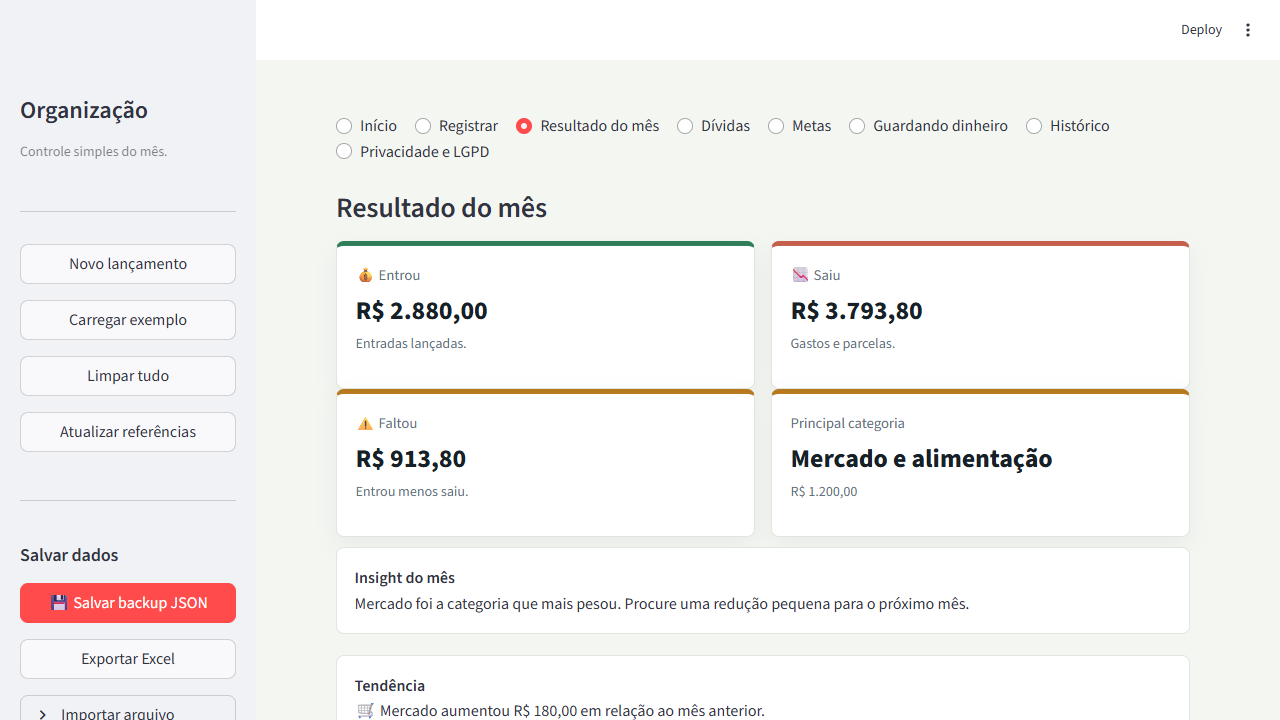
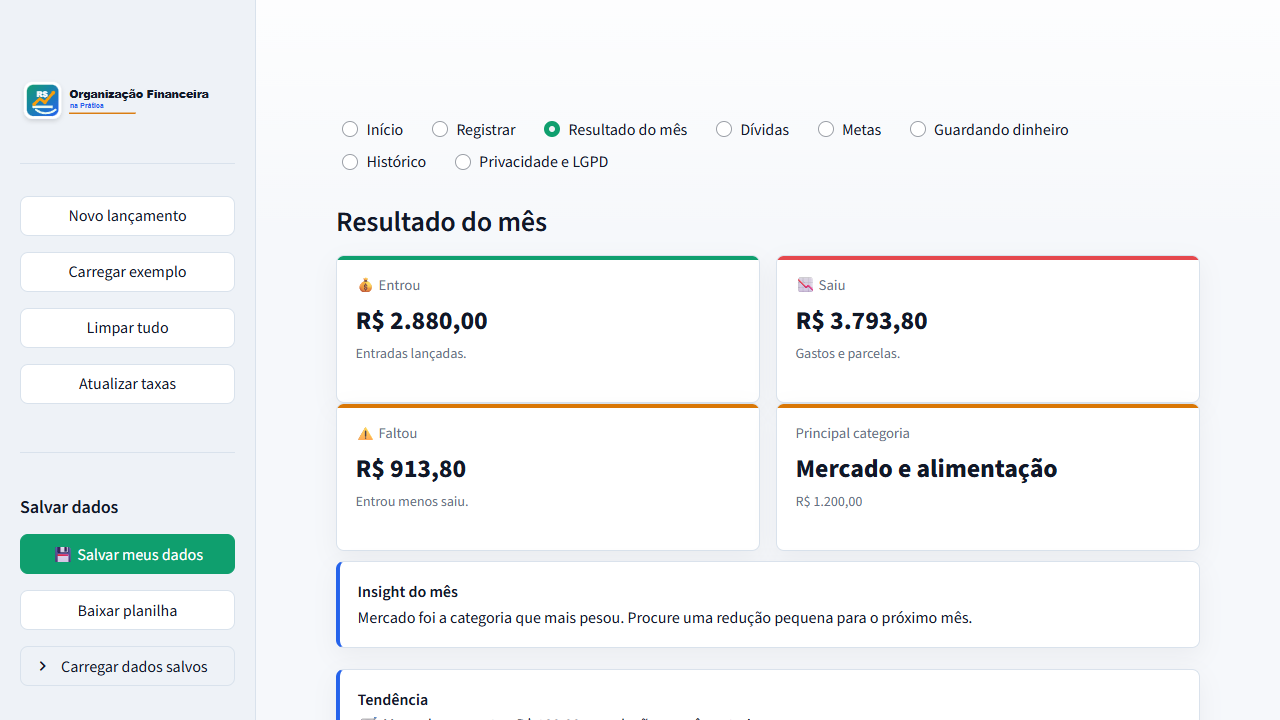
Add app documentation screenshots and flow guide

diff --git a/docs/funcionamento-app.md b/docs/funcionamento-app.md
@@ -1,0 +1,67 @@
+# Documentação de funcionamento do app
+
+Registro visual da simulação feita no app **Organização Financeira na Prática** em 18/05/2026.
+
+## Cenário simulado
+
+A simulação foi feita pelo botão **Carregar exemplo**, usando os dados fictícios já definidos no próprio app:
+
+- entradas do mês, como salário e horas extras;
+- gastos fixos e variáveis, como aluguel, mercado, transporte, internet e assinaturas;
+- compras parceladas e dívidas do mês;
+- metas financeiras com prioridades e prazos;
+- simulação de dinheiro guardado ao longo do tempo.
+
+## Telas registradas
+
+### 1. Início
+
+Apresenta a proposta do aplicativo e os principais módulos de uso.
+
+![Tela inicial](screenshots/inicio.png)
+
+### 2. Registrar
+
+Mostra o cadastro rápido de entradas e gastos, a tabela editável e o resumo por categoria.
+
+![Tela de registro](screenshots/registrar.png)
+
+### 3. Resultado do mês
+
+Exibe o total que entrou, saiu, o saldo final, a principal categoria de gasto e o mapa do mês.
+
+![Resultado do mês](screenshots/resultado-mes.png)
+
+### 4. Dívidas
+
+Registra dívidas e parcelas, mostrando o total restante, parcelas do mês e impacto no resultado.
+
+![Dívidas e parcelas](screenshots/dividas.png)
+
+### 5. Metas
+
+Permite acompanhar objetivos financeiros, valores já guardados, prazos e progresso de cada meta.
+
+![Metas](screenshots/metas.png)
+
+### 6. Guardando dinheiro
+
+Simula a evolução do dinheiro guardado, comparando dinheiro parado, poupança e aplicação simples.
+
+![Guardando dinheiro](screenshots/guardando-dinheiro.png)
+
+### 7. Histórico
+
+Reúne exportações, resumo mensal, evolução anual e relatórios de apoio.
+
+![Histórico](screenshots/historico.png)
+
+### 8. Privacidade e LGPD
+
+Documenta a política de privacidade, o tratamento local dos dados e as limitações do app.
+
+![Privacidade e LGPD](screenshots/privacidade-lgpd.png)
+
+## Resultado da simulação
+
+O fluxo confirmou que as principais abas carregam com dados de demonstração e exibem indicadores, gráficos, tabelas editáveis, botões de exportação e informações de privacidade para apresentação do funcionamento do app.

diff --git a/README.md b/README.md
@@ -6,6 +6,8 @@ O projeto foi pensado para uso cotidiano, sem login, banco de dados ou coleta de
 
 ## Screenshots
 
+Fluxo completo da simulação: [docs/funcionamento-app.md](docs/funcionamento-app.md)
+
 ![Tela inicial](docs/screenshots/inicio.png)
 
 ![Resultado do mês](docs/screenshots/resultado-mes.png)